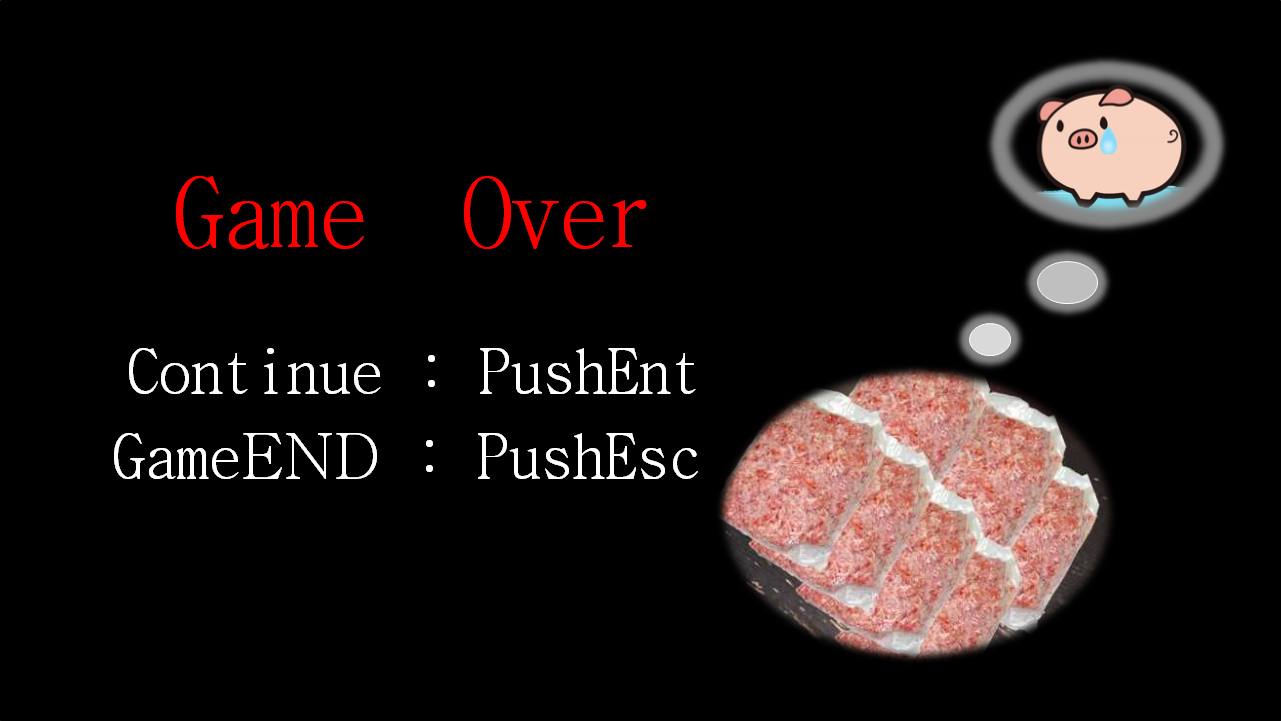
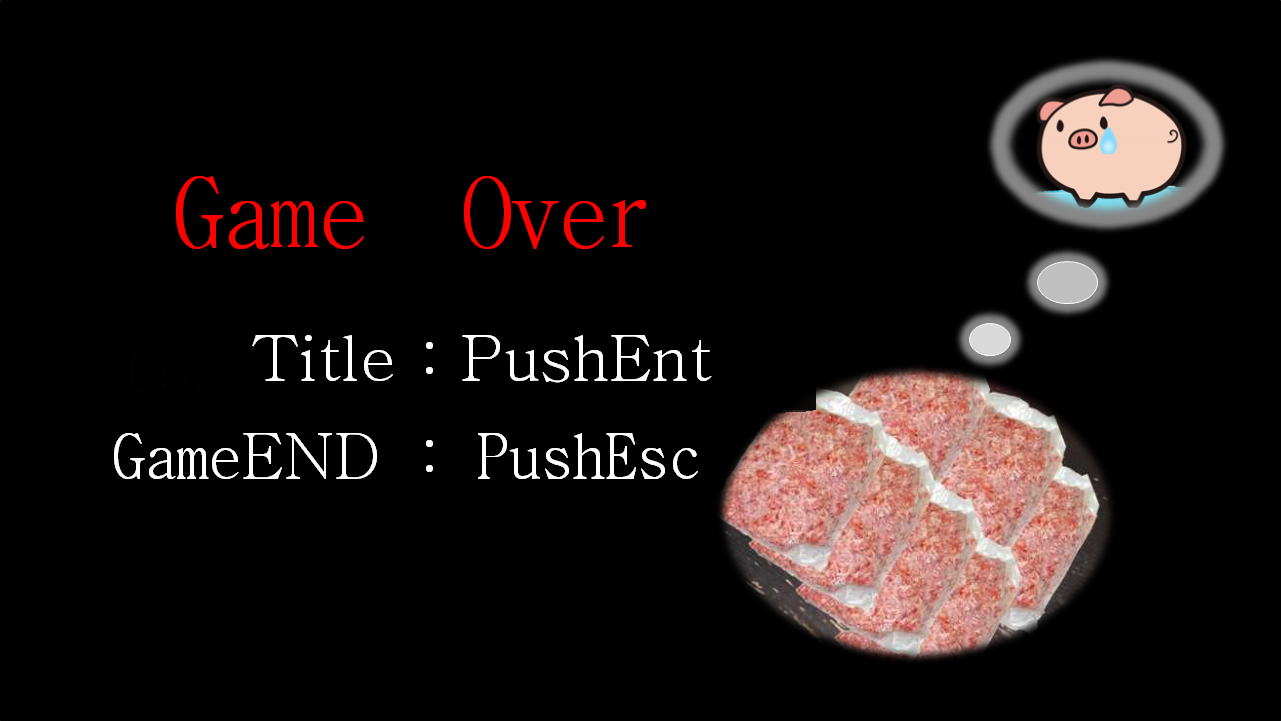
罠タイトル

Changed region(s): [[0.0937, 0.4577, 0.5621, 0.5492], [0.5933, 0.5492, 0.6557, 0.5798]]

diff --git a/Aiming luxury pig/Aiming luxury pig/ObjTitle.cpp b/Aiming luxury pig/Aiming luxury pig/ObjTitle.cpp
@@ -23,7 +23,7 @@ void CObjTitle::Action()
 	{
 		if (m_key_flag == true)
 		{
-			Scene::SetScene(new CSelect());
+			Scene::SetScene(new CSceneMain());
 			m_key_flag = false;
 		}
 	}
